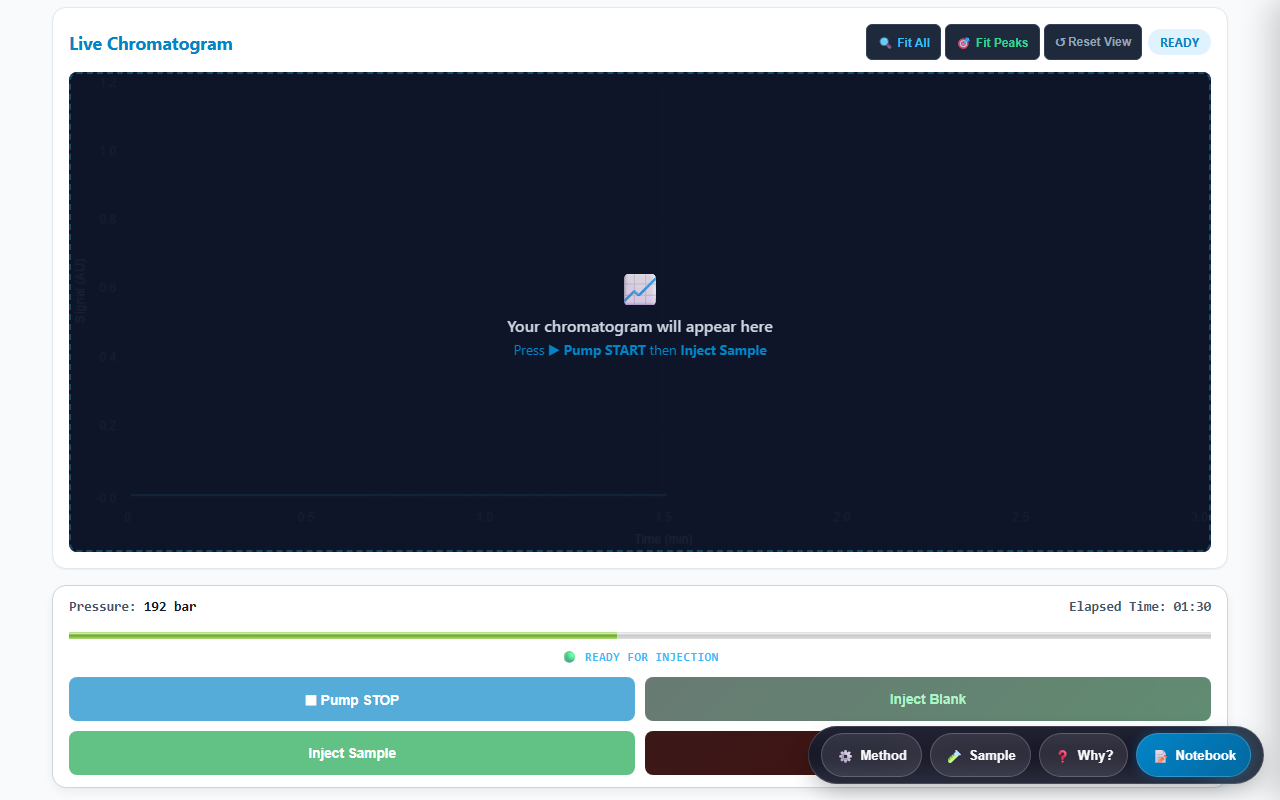
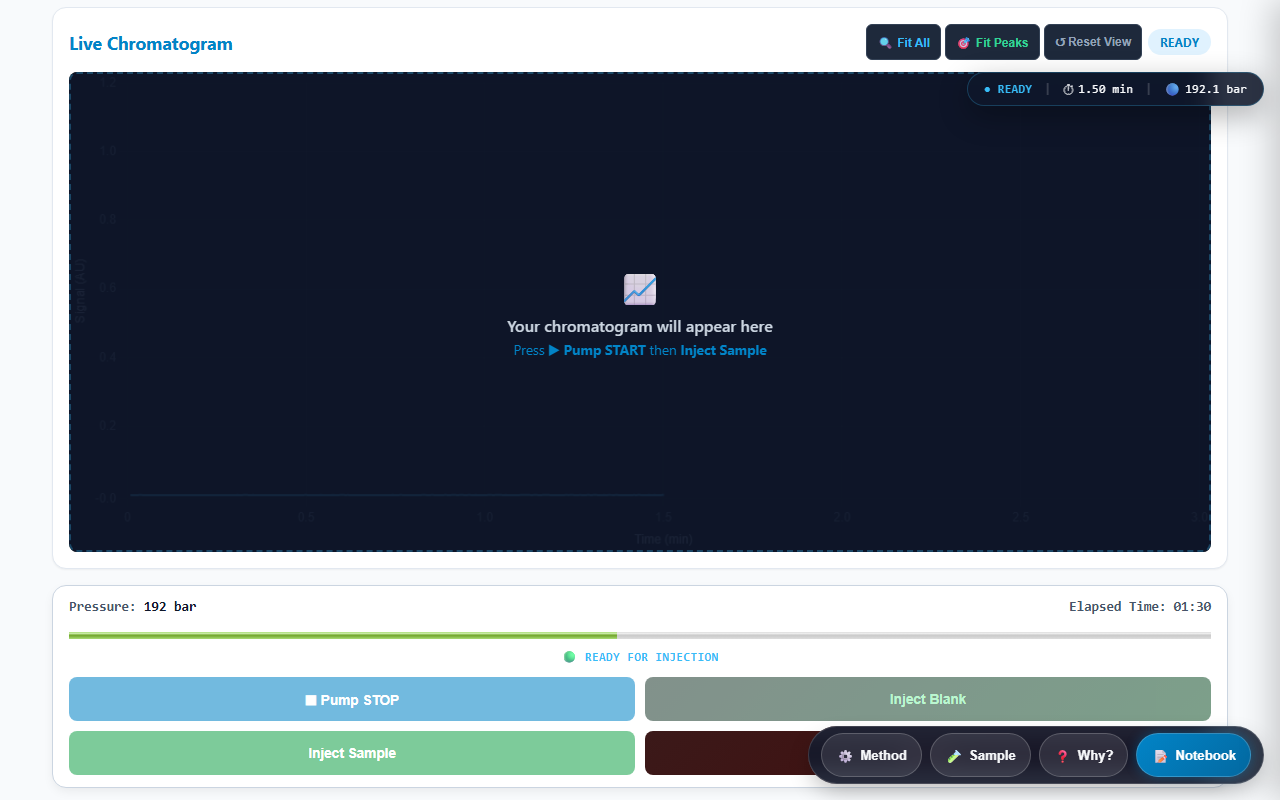
feat(ux): Add IntersectionObserver Sticky Telemetry & Live Chromatogram PiP for persistent context

diff --git a/instruments/hplc/ui/UiCoordinator.js b/instruments/hplc/ui/UiCoordinator.js
@@ -18,6 +18,7 @@ export class UiCoordinator {
     this.bindEvents();
     this.bindWhyModal();
     this.bindFloatingDockAndDrawers();
+    this.bindStickyObserverAndPip();
   }
 
   /** Centralized Event Subscriptions */
@@ -38,12 +39,16 @@ export class UiCoordinator {
       if (this.views.runTimeline)  this._updateTimelinePhase(newState);
       this._updateCdsStateVal(newState);
       this._updateStepHighlight(newState);
+      const pipState = document.getElementById('pipStateVal');
+      if (pipState) pipState.textContent = `● ${newState}`;
     });
 
     bus.on(HPLC_EVENTS.PRESSURE_CHANGED, ({ pressure }) => {
       if (this.views.displayView)  this.views.displayView.setPressure(pressure);
       if (this.views.statusBar)    this.views.statusBar.update({ pressureBar: pressure });
       this._updateCdsPressureVal(pressure);
+      const pipP = document.getElementById('pipPressureVal');
+      if (pipP) pipP.textContent = `${pressure.toFixed(1)} bar`;
     });
 
     bus.on(HPLC_EVENTS.WAVELENGTH_CHANGED, ({ wavelengthNm }) => {
@@ -68,6 +73,7 @@ export class UiCoordinator {
       if (this.views.narrator)                this.views.narrator.clear();
       if (this.views.methodReplay)            this.views.methodReplay.reset();
 
+      this.pipDataPoints = [];
       this._updateStepHighlight('RUNNING');
 
       if (expectedAnalytes && expectedAnalytes.length && this.views.interactiveChromatogram) {
@@ -86,16 +92,21 @@ export class UiCoordinator {
 
     bus.on(HPLC_EVENTS.TICK, ({ time, signal, pressure, phase }) => {
       if (this.views.displayView) this.views.displayView.setTimeDisplay(time);
+      const pipTimer = document.getElementById('pipTimerVal');
+      if (pipTimer) pipTimer.textContent = `${time.toFixed(2)} min`;
 
       const state = this.controller.getState();
       if (state === 'PRIMING' || state === 'EQUILIBRATING' || state === 'READY' || state === 'RUNNING') {
         if (this.views.graphView) this.views.graphView.addPoint(time, signal);
 
-        if (state === 'RUNNING' && this.views.runTimeline) {
-          if (time < 0.3)      this.views.runTimeline.setPhase('prime');
-          else if (time < 0.8) this.views.runTimeline.setPhase('equilibrate');
-          else if (time < 1.5) this.views.runTimeline.setPhase('inject');
-          else                 this.views.runTimeline.setPhase('separation');
+        if (state === 'RUNNING') {
+          this._updatePipSparkline(time, signal);
+          if (this.views.runTimeline) {
+            if (time < 0.3)      this.views.runTimeline.setPhase('prime');
+            else if (time < 0.8) this.views.runTimeline.setPhase('equilibrate');
+            else if (time < 1.5) this.views.runTimeline.setPhase('inject');
+            else                 this.views.runTimeline.setPhase('separation');
+          }
         }
       }
     });
@@ -315,5 +326,75 @@ export class UiCoordinator {
 
     backdrop.classList.add('active');
     drawer.classList.add('active');
+  }
+
+  /** Sprint U5: Persistent Context Sticky Telemetry & Live PiP Card */
+  bindStickyObserverAndPip() {
+    this.pipDataPoints = [];
+    const heroStrip = document.getElementById('cds-telemetry-strip');
+    const heroGraph = document.getElementById('graphCanvas');
+    const stickyPip = document.getElementById('stickyTelemetryPip');
+    const livePip = document.getElementById('liveChromatogramPip');
+
+    if (heroStrip && stickyPip && 'IntersectionObserver' in window) {
+      const observer = new IntersectionObserver((entries) => {
+        entries.forEach(entry => {
+          if (!entry.isIntersecting) {
+            stickyPip.classList.add('visible');
+          } else {
+            stickyPip.classList.remove('visible');
+          }
+        });
+      }, { threshold: 0.1 });
+      observer.observe(heroStrip);
+    }
+
+    if (heroGraph && livePip && 'IntersectionObserver' in window) {
+      const graphObserver = new IntersectionObserver((entries) => {
+        entries.forEach(entry => {
+          const isRunning = this.controller.getState() === 'RUNNING';
+          if (!entry.isIntersecting && isRunning) {
+            livePip.classList.add('visible');
+          } else {
+            livePip.classList.remove('visible');
+          }
+        });
+      }, { threshold: 0.2 });
+      graphObserver.observe(heroGraph);
+    }
+
+    if (livePip) {
+      livePip.addEventListener('click', () => {
+        const graph = document.getElementById('graphCanvas');
+        if (graph) graph.scrollIntoView({ behavior: 'smooth', block: 'center' });
+      });
+    }
+  }
+
+  /** Render real-time mini sparkline trace inside PiP Canvas */
+  _updatePipSparkline(time, signal) {
+    if (!this.pipDataPoints) this.pipDataPoints = [];
+    this.pipDataPoints.push({ time, signal });
+    if (this.pipDataPoints.length > 150) this.pipDataPoints.shift();
+
+    const canvas = document.getElementById('pipSparklineCanvas');
+    if (!canvas) return;
+    const ctx = canvas.getContext('2d');
+    const w = canvas.width;
+    const h = canvas.height;
+
+    ctx.clearRect(0, 0, w, h);
+    ctx.strokeStyle = '#38bdf8';
+    ctx.lineWidth = 1.5;
+    ctx.beginPath();
+
+    const maxSig = Math.max(10, ...this.pipDataPoints.map(p => p.signal));
+    this.pipDataPoints.forEach((pt, idx) => {
+      const x = (idx / (this.pipDataPoints.length - 1 || 1)) * w;
+      const y = h - (pt.signal / maxSig) * (h - 6) - 3;
+      if (idx === 0) ctx.moveTo(x, y);
+      else ctx.lineTo(x, y);
+    });
+    ctx.stroke();
   }
 }

diff --git a/css/global.css b/css/global.css
@@ -833,22 +833,113 @@ input[type="range"]:focus-visible {
   flex: 1;
 }
 
+/* ===== PERSISTENT EXPERIMENTAL CONTEXT: STICKY TELEMETRY & LIVE PIP ===== */
+.sticky-telemetry-pip {
+  position: fixed;
+  top: 72px;
+  right: 16px;
+  z-index: 850;
+  display: flex;
+  align-items: center;
+  gap: 12px;
+  background: rgba(15, 23, 42, 0.88);
+  backdrop-filter: blur(12px);
+  -webkit-backdrop-filter: blur(12px);
+  border: 1px solid rgba(56, 189, 248, 0.25);
+  padding: 8px 16px;
+  border-radius: var(--radius-full);
+  box-shadow: 0 10px 30px rgba(0, 0, 0, 0.3);
+  color: #f8fafc;
+  font-family: var(--font-mono);
+  font-size: 0.78rem;
+  opacity: 0;
+  transform: translateY(-12px);
+  pointer-events: none;
+  transition: opacity 0.25s ease, transform 0.25s ease;
+}
+
+.sticky-telemetry-pip.visible {
+  opacity: 1;
+  transform: translateY(0);
+  pointer-events: auto;
+}
+
+.sticky-pip-item {
+  display: flex;
+  align-items: center;
+  gap: 4px;
+}
+
+.sticky-pip-divider {
+  color: rgba(255, 255, 255, 0.2);
+}
+
+/* Live Chromatogram Picture-in-Picture Mini Card */
+.live-chromatogram-pip {
+  position: fixed;
+  bottom: 80px;
+  left: 16px;
+  z-index: 850;
+  width: 220px;
+  background: rgba(15, 23, 42, 0.92);
+  backdrop-filter: blur(12px);
+  -webkit-backdrop-filter: blur(12px);
+  border: 1px solid rgba(56, 189, 248, 0.3);
+  border-radius: var(--radius-md);
+  padding: 10px;
+  box-shadow: 0 12px 36px rgba(0, 0, 0, 0.4);
+  color: #f8fafc;
+  cursor: pointer;
+  opacity: 0;
+  transform: translateY(16px) scale(0.95);
+  pointer-events: none;
+  transition: all 0.3s cubic-bezier(0.16, 1, 0.3, 1);
+}
+
+.live-chromatogram-pip.visible {
+  opacity: 1;
+  transform: translateY(0) scale(1);
+  pointer-events: auto;
+}
+
+.live-chromatogram-pip:hover {
+  border-color: var(--brand-primary);
+  transform: translateY(-2px) scale(1.02);
+}
+
+.pip-header {
+  display: flex;
+  justify-content: space-between;
+  align-items: center;
+  font-size: 0.72rem;
+  font-weight: 700;
+  margin-bottom: 6px;
+  color: #38bdf8;
+}
+
+.pip-sparkline {
+  width: 100%;
+  height: 48px;
+  background: #020617;
+  border-radius: 6px;
+  border: 1px solid rgba(255, 255, 255, 0.1);
+}
+
 @media (max-width: 640px) {
-  .floating-quick-dock {
-    bottom: 72px;
+  .sticky-telemetry-pip {
+    top: 64px;
     left: 12px;
     right: 12px;
-    justify-content: space-around;
-    padding: 6px 8px;
+    justify-content: center;
+    font-size: 0.72rem;
+    padding: 6px 10px;
   }
-  .fab-btn span.fab-label {
-    display: none;
-  }
-  .slide-over-drawer {
-    max-width: 100%;
-    border-radius: var(--radius-lg) var(--radius-lg) 0 0;
-    top: 60px;
+  .live-chromatogram-pip {
+    bottom: 135px;
+    left: 12px;
+    width: 170px;
   }
 }
+
 
 

diff --git a/instruments/hplc/index.html b/instruments/hplc/index.html
@@ -937,5 +937,29 @@
     <div id="drawerBody" class="drawer-body"></div>
   </aside>
 
+  <!-- Sprint U5: Persistent Context Sticky Telemetry & Live PiP Card -->
+  <div id="stickyTelemetryPip" class="sticky-telemetry-pip" role="region" aria-label="Sticky Telemetry Summary">
+    <div class="sticky-pip-item">
+      <span id="pipStateVal" style="color:#38bdf8; font-weight:700;">🟢 READY</span>
+    </div>
+    <span class="sticky-pip-divider">|</span>
+    <div class="sticky-pip-item">
+      <span>⏱</span> <span id="pipTimerVal">0.00 min</span>
+    </div>
+    <span class="sticky-pip-divider">|</span>
+    <div class="sticky-pip-item">
+      <span>🔵</span> <span id="pipPressureVal">0.0 bar</span>
+    </div>
+  </div>
+
+  <!-- Live Chromatogram Picture-in-Picture Mini Card -->
+  <div id="liveChromatogramPip" class="live-chromatogram-pip" role="button" aria-label="Return to full chromatogram">
+    <div class="pip-header">
+      <span>📈 Live Chromatogram</span>
+      <span id="pipAcqStatus" style="font-size:0.68rem; color:#34d399;">RUNNING</span>
+    </div>
+    <canvas id="pipSparklineCanvas" class="pip-sparkline" width="200" height="48"></canvas>
+  </div>
+
 </body>
 </html>
